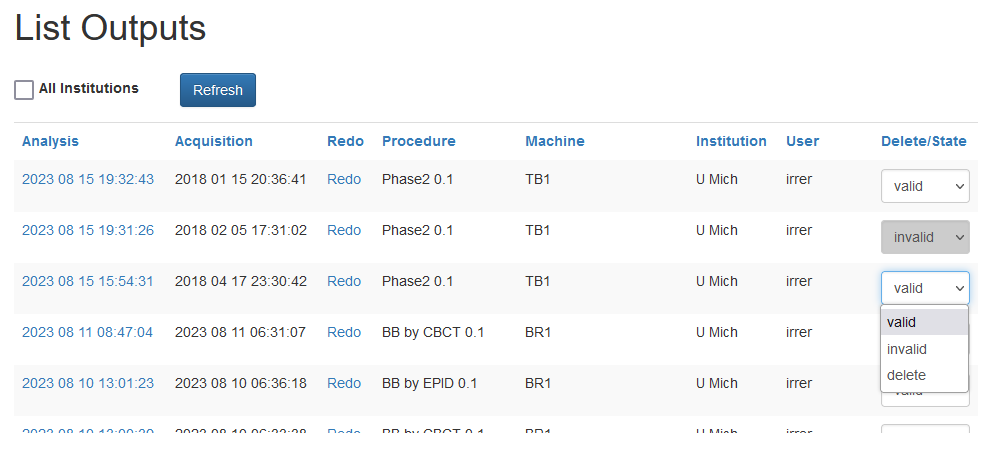
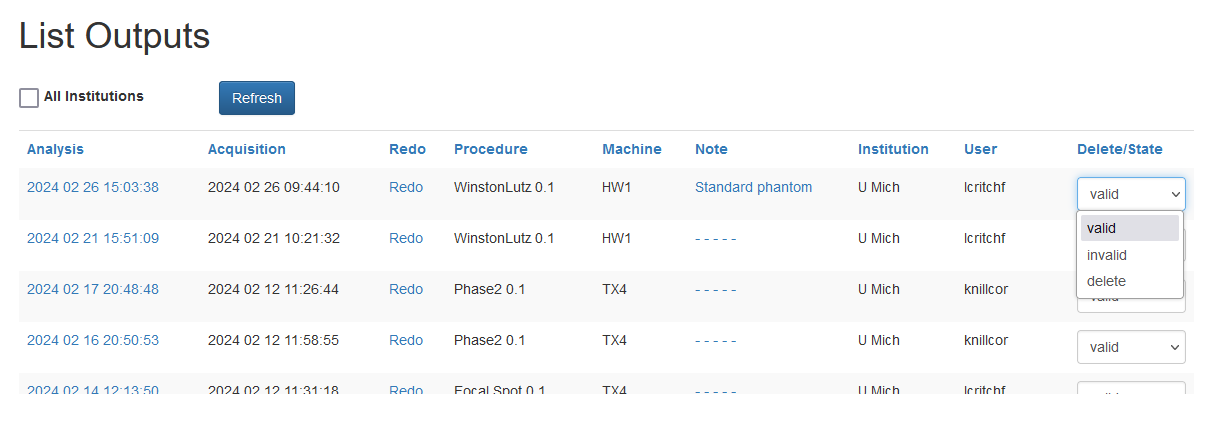
Update ViewResults user guide.

diff --git a/src/main/resources/static/doc/ViewingResults/index.html b/src/main/resources/static/doc/ViewingResults/index.html
@@ -48,6 +48,9 @@
         </li>
         <li style="margin-top:20px;"><b>Procedure: </b>The name of the test.</li>
         <li style="margin-top:20px;"><b>Machine: </b>The machine from which the data originated.</li>
+        <li style="margin-top:20px;"><b>Note: </b>Shows the note for this output, or dashes if none. Click to edit.
+            Entering a note with no text will delete the note.
+        </li>
         <li style="margin-top:20px;"><b>Institution: </b>The Institution from which the data originated.</li>
         <li style="margin-top:20px;"><b>User: </b>The user that uploaded the data. This may be different from the user
             that delivered the test at the machine.
@@ -89,6 +92,15 @@
 
     <!--suppress CheckImageSize -->
     <img src="AfterMarking.png" alt="After marking data invalid." width="900"
+         style="margin:30px;margin:10px; border: 1px solid lightgrey;"/>
+
+
+    <h3>Output Headers</h3>
+    <p>
+        Each analysis has a common header presenting its meta information. An annotated example is shown below.
+    </p>
+
+    <img src="OutputHeader.png" alt="Example of output header." width="900"
          style="margin:30px;margin:10px; border: 1px solid lightgrey;"/>
 
     <p style="margin-bottom:100px;"></p>
